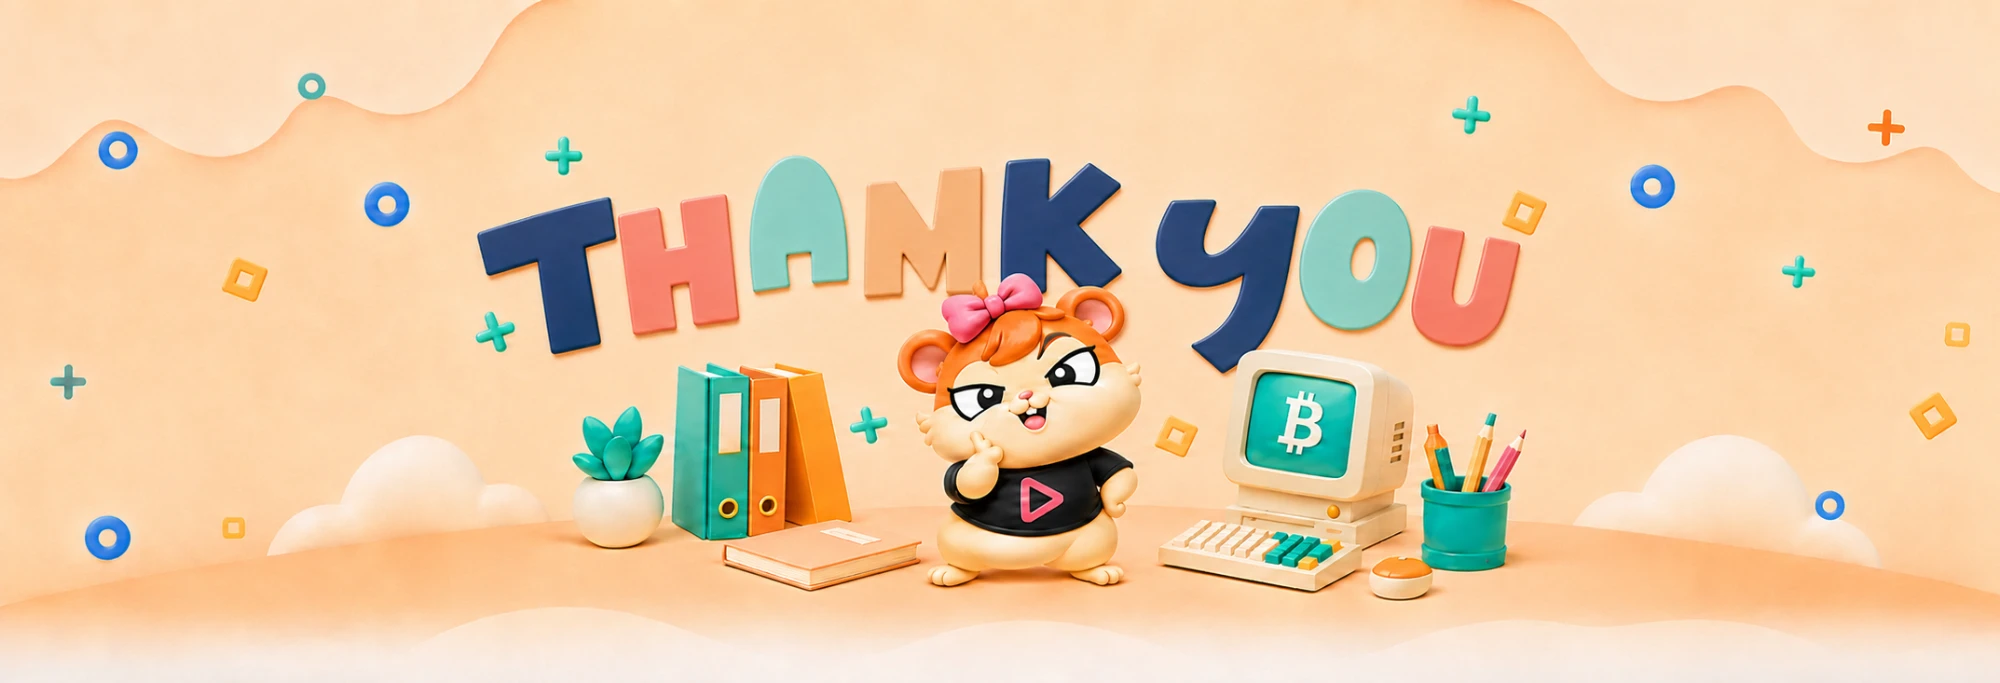
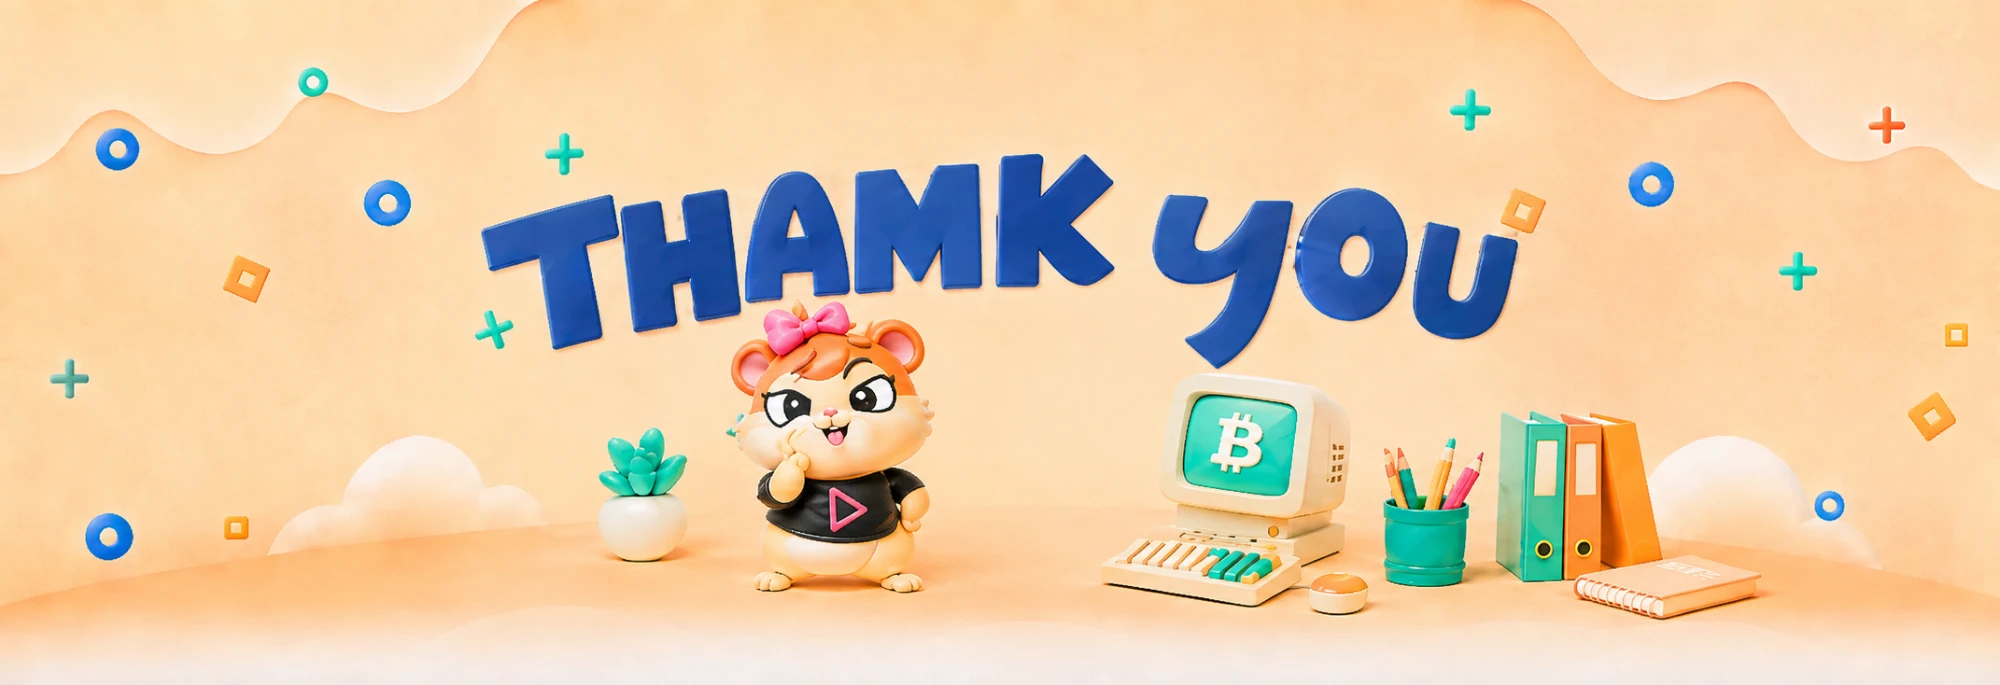
Swap the hero to the blue-wordmark artwork
Same scene, different arrangement — mascot left of centre, computer and
files moved right, wordmark in a single blue instead of multicolour.

This artwork spells "THAMK YOU". The letter after "THA" has three legs and
a middle vee; I cropped it at full resolution and read it before writing
anything. That is the same misspelling removed one commit earlier in
d02d57a, it was raised before this change was made, and it was confirmed
deliberately. Recording it here so a later reader knows it was a decision
rather than something that slipped through. The correctly spelled artwork
is recoverable from d02d57a if that changes.

This one is 2000x685, not the 2000x683 of the two heroes before it, so the
intrinsic height on both the <source> and the <img> moves to 685. Two
pixels, but stale values here are what caused the stretched-banner bug
earlier in the project.

The mobile crop keeps the established 470px centre offset — but only after
checking. The mascot sits left of centre in this composition, so I rendered
crops at 330, 400 and 470 and compared: the first two clip the "U" off the
end of the wordmark. Centre was right here for a different reason than
before, which is worth knowing next time the art changes.

Alt text stays "Thank you". Alt exists so a screen reader user understands
the image; transcribing a generation artefact into it helps nobody.

Verified at 1440 and 390: each width loads its own file, natural dimensions
[…]

diff --git a/thankyou.html b/thankyou.html
@@ -24,8 +24,8 @@
       <picture>
         <!-- Same scene, two crops: wide for desktop, tighter for phones so the
              wordmark and mascot stay large. Both run full-bleed. -->
-        <source media="(min-width: 769px)" srcset="assets/thankyou-hero-wide.webp" width="2000" height="683">
-        <img class="hero__art" src="assets/thankyou-hero-mobile.webp" width="1060" height="683"
+        <source media="(min-width: 769px)" srcset="assets/thankyou-hero-wide.webp" width="2000" height="685">
+        <img class="hero__art" src="assets/thankyou-hero-mobile.webp" width="1060" height="685"
              alt="Thank you — มาสคอตแฮมสเตอร์ของ HamsterHub ยืนอยู่กลางโต๊ะทำงาน">
       </picture>
     </div>
